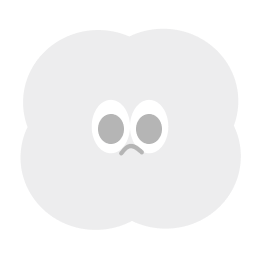
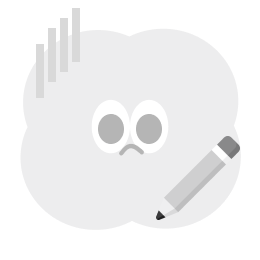
fix: reportInactive 아이콘 경로를 올바른 이미지로 업데이트

Changed region(s): [[0.6154, 0.5231, 0.9231, 0.8308], [0.1231, 0.0308, 0.3077, 0.2462], [0.5846, 0.8, 0.6462, 0.8615]]

diff --git a/apps/mobile/src/shared/assets/images/main/index.ts b/apps/mobile/src/shared/assets/images/main/index.ts
@@ -14,7 +14,7 @@ export const MAIN_ICONS = {
   settingsActive: require('./tab/active/settings-active.png'),
   settingsInactive: require('./tab/inactive/settings-inactive.png'),
   reportActive: require('./tab/active/report-active.png'),
-  reportInactive: require('./tab/active/report-active.png'),
+  reportInactive: require('./tab/active/report-inactive.png'),
 } as const;
 
 export type MainIconKey = keyof typeof MAIN_ICONS;
